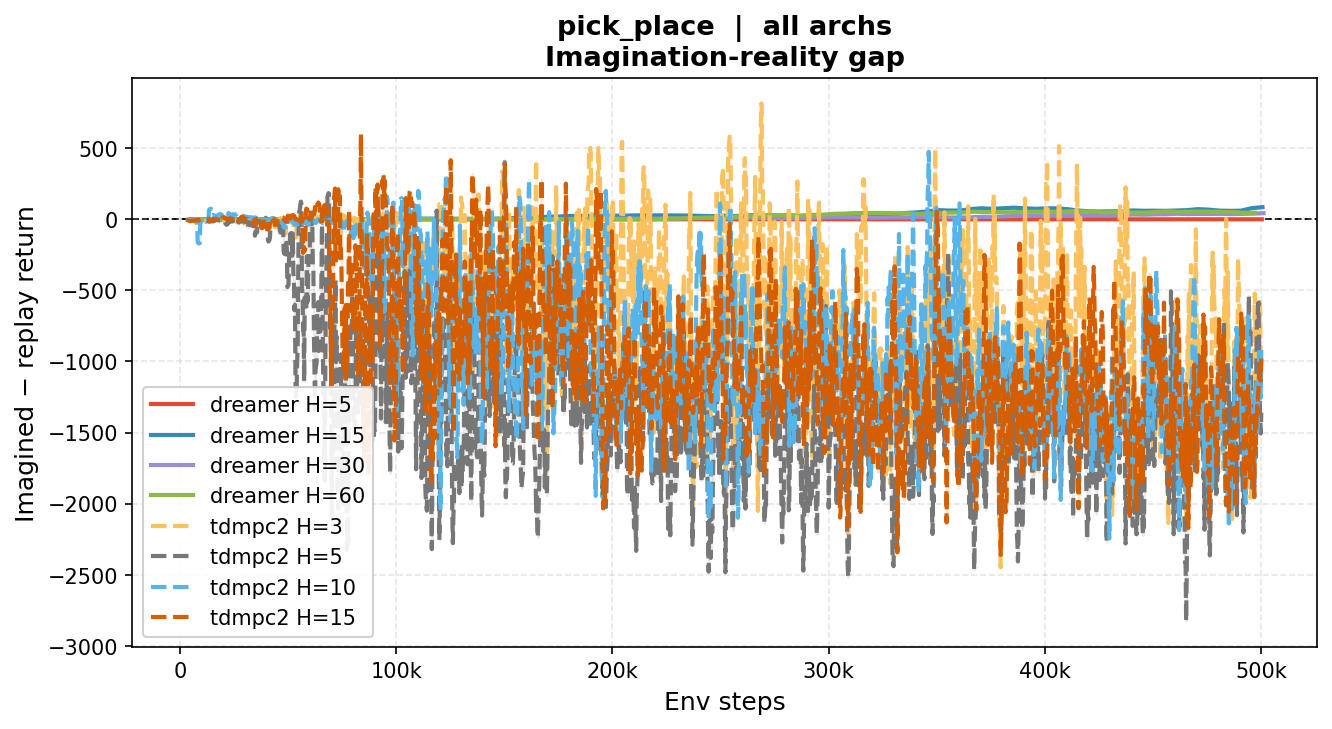
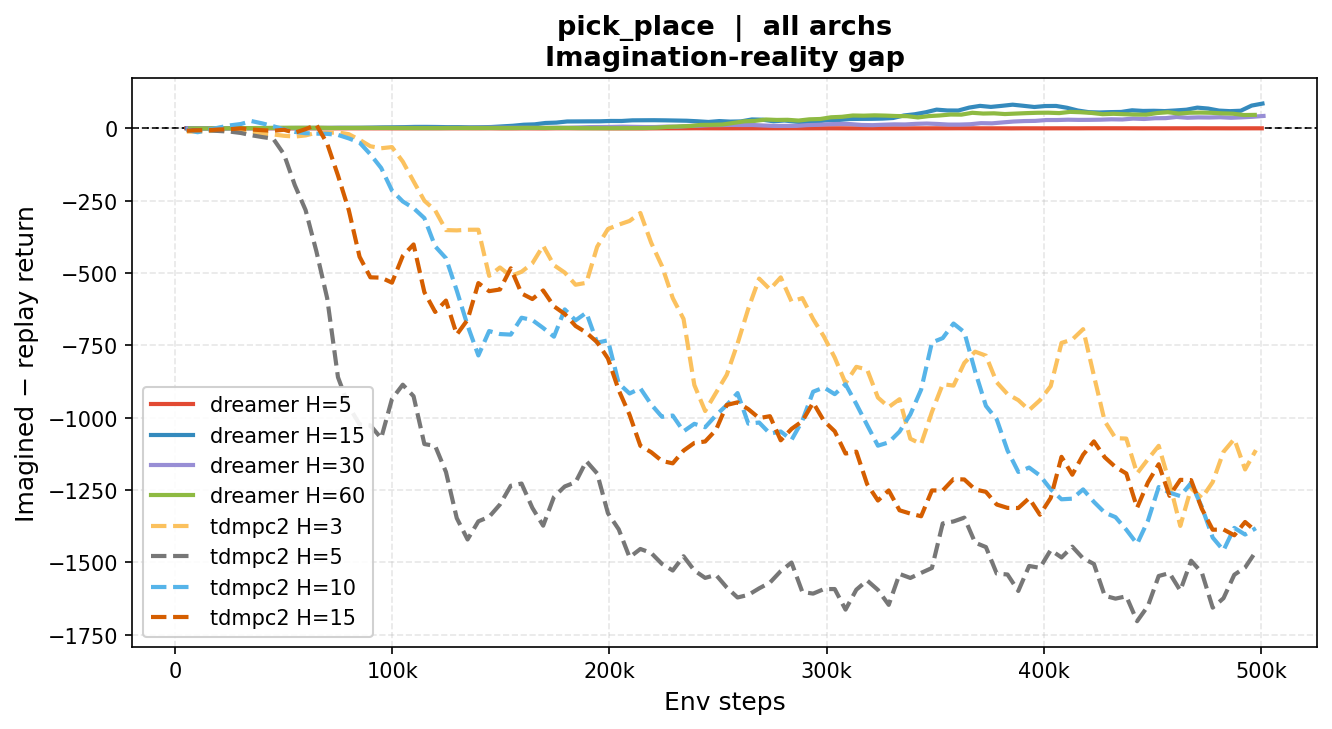
Bump up smoothing on pick place gap comparison graphs

diff --git a/scripts/compare_horizons.py b/scripts/compare_horizons.py
@@ -19,6 +19,9 @@ Options:
                               Plots land in <out>/<task>/<arch>/
     --show                    Open plots interactively after saving
     --smooth <int>            Rolling-window size for train/gap curves (default: 5)
+    --gap-bins <int>          Bin-average the noisy gap curve into N bins before
+                              smoothing; lower = cleaner, 0 disables (default: 120)
+    --no-gap-band             Hide the shaded std band on the gap plot
 
 Examples:
     python compare_horizons.py ../logdir/ --task walker_walk
@@ -196,8 +199,33 @@ def _bin_train(grouped_key, smooth=1, n_bins=200):
     return ref, mean_mat.mean(axis=0), std_mat.mean(axis=0)
 
 
-def _gap_series(runs, smooth=1):
-    """Derive imagination gap for a list of (run_name, series)."""
+def _bin_xy(ss, vv, n_bins):
+    """
+    Average (steps, vals) into n_bins equal-width bins along steps.
+    Collapses many noisy per-step points into a small number of stable
+    bin means before any rolling smooth is applied.  Empty bins dropped.
+    """
+    if n_bins <= 0 or len(ss) <= n_bins:
+        return ss, vv
+    edges   = np.linspace(ss.min(), ss.max(), n_bins + 1)
+    centers = (edges[:-1] + edges[1:]) / 2
+    c_out, m_out = [], []
+    for lo, hi, c in zip(edges[:-1], edges[1:], centers):
+        mask = (ss >= lo) & (ss < hi)
+        if mask.sum() == 0:
+            continue
+        c_out.append(c)
+        m_out.append(np.mean(vv[mask]))
+    return np.array(c_out), np.array(m_out)
+
+
+def _gap_series(runs, smooth=1, n_bins=120):
+    """
+    Derive imagination gap for a list of (run_name, series).
+    Each run is bin-averaged into n_bins (set n_bins=0 to disable) and then
+    rolling-smoothed, mirroring _bin_train, so the raw per-step volatility
+    of the gap signal is tamed before runs are combined.
+    """
     all_steps, all_vals = [], []
     for _, series in runs:
         gs, gv = steps_values(series, "train/imagination_gap")
@@ -209,6 +237,7 @@ def _gap_series(runs, smooth=1):
                 gs, gv = ir, iv - ev_i
         if gs is None:
             continue
+        gs, gv = _bin_xy(gs, gv, n_bins)
         all_steps.append(gs)
         all_vals.append(rolling_mean(gv, smooth))
 
@@ -324,7 +353,8 @@ def plot_train_comparison(grouped, out: Path, task: str, arch_label: str,
 # ── plot C: imagination gap ───────────────────────────────────────────────────
 
 def plot_gap_comparison(grouped, out: Path, task: str, arch_label: str,
-                        show: bool, smooth: int = 5):
+                        show: bool, smooth: int = 5, gap_bins: int = 120,
+                        band: bool = True):
     fig, ax = plt.subplots(figsize=(9, 5))
     ax.axhline(0, color="black", lw=0.9, linestyle="--", zorder=1)
     arches = sorted({a for a, _ in grouped})
@@ -334,11 +364,12 @@ def plot_gap_comparison(grouped, out: Path, task: str, arch_label: str,
     for i, (arch, h_val) in enumerate(keys):
         color = LINE_COLORS[i % len(LINE_COLORS)]
         ls    = ARCH_DASH.get(arch, "-")
-        cs, mv, sv = _gap_series(grouped[(arch, h_val)], smooth)
+        cs, mv, sv = _gap_series(grouped[(arch, h_val)], smooth, gap_bins)
         if cs is None:
             continue
         lbl = make_label(arch, h_val, None, multi_arch=(len(arches) > 1))
-        ax.fill_between(cs, mv - sv, mv + sv, color=color, alpha=0.15)
+        if band:
+            ax.fill_between(cs, mv - sv, mv + sv, color=color, alpha=0.15)
         ax.plot(cs, mv, color=color, lw=2, linestyle=ls, label=lbl)
         plotted = True
 
@@ -384,7 +415,7 @@ def plot_vpe_comparison(grouped, out: Path, task: str, arch_label: str,
 # ── plot E: 2×2 summary panel ────────────────────────────────────────────────
 
 def plot_summary_panel(grouped, out: Path, task: str, arch_label: str,
-                       show: bool, smooth: int = 5):
+                       show: bool, smooth: int = 5, gap_bins: int = 120):
     fig, axes = plt.subplots(2, 2, figsize=(14, 9))
     ax_eval, ax_train, ax_gap, ax_vpe = axes.flat
     ax_gap.axhline(0, color="black", lw=0.9, linestyle="--", zorder=1)
@@ -412,7 +443,7 @@ def plot_summary_panel(grouped, out: Path, task: str, arch_label: str,
             ax_train.plot(cs, mv, color=color, lw=2, linestyle=ls, label=lbl)
 
         # gap
-        cs, mv, sv = _gap_series(grouped[(arch, h_val)], smooth)
+        cs, mv, sv = _gap_series(grouped[(arch, h_val)], smooth, gap_bins)
         if cs is not None:
             ax_gap.fill_between(cs, mv - sv, mv + sv, color=color, alpha=0.15)
             ax_gap.plot(cs, mv, color=color, lw=2, linestyle=ls, label=lbl)
@@ -503,6 +534,12 @@ def main():
     parser.add_argument("--show", action="store_true")
     parser.add_argument("--smooth", type=int, default=5,
                         help="Rolling-window size for smoothed curves (default: 5)")
+    parser.add_argument("--gap-bins", type=int, default=120,
+                        help="Bin-average the noisy imagination-gap curve into this "
+                             "many equal-width bins before smoothing; lower = cleaner, "
+                             "0 disables binning (default: 120)")
+    parser.add_argument("--no-gap-band", action="store_true",
+                        help="Hide the shaded std band on the gap plot for a cleaner line")
     args = parser.parse_args()
 
     root      = args.root_dir.resolve()
@@ -523,9 +560,11 @@ def main():
     print("Generating comparison plots...")
     plot_eval_comparison(grouped, out, args.task, arch_label, args.show)
     plot_train_comparison(grouped, out, args.task, arch_label, args.show, args.smooth)
-    plot_gap_comparison(grouped, out, args.task, arch_label, args.show, args.smooth)
+    plot_gap_comparison(grouped, out, args.task, arch_label, args.show, args.smooth,
+                        args.gap_bins, band=not args.no_gap_band)
     plot_vpe_comparison(grouped, out, args.task, arch_label, args.show, args.smooth)
-    plot_summary_panel(grouped, out, args.task, arch_label, args.show, args.smooth)
+    plot_summary_panel(grouped, out, args.task, arch_label, args.show, args.smooth,
+                       args.gap_bins)
 
     print("\nSummary table:")
     write_comparison_summary(grouped, out, args.task, arch_label)
